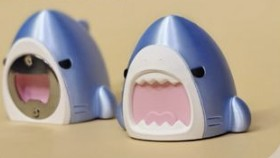
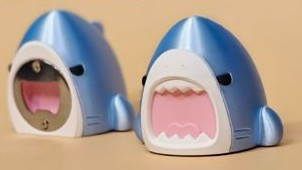
3D merch slider: new garden and shark photos
Claude-Session: https://claude.ai/code/session_0182ETGqkY6VZC2ACV9rE9Mb

diff --git a/index.html b/index.html
@@ -882,7 +882,7 @@ var ART = [
 var FAB = [
   { imgs:['fab-game-3.jpg','fab-game-2.jpg','fab-game-4.jpg','fab-game-1.jpg'], title:['โมเดล 3D สำหรับเกม','3D Model — Game'], desc:['โมเดล 3D สำหรับใช้ในเกม','3D models for games.'], kw:'สามมิติ เกม โมเดล 3d' },
   { imgs:['fab-gen-1.jpg','fab-gen-2.jpg','fab-gen-4.jpg','fab-gen-3.jpg'], title:['โมเดล 3D งานทั่วไป','3D Model — General'], desc:['โมเดล 3D สำหรับงานทั่วไป เช่น โปรโมต วิชวล หรืองานพิมพ์','3D models for general use, like promotion, visuals or printing.'], kw:'สามมิติ โมเดล 3d' },
-  { imgs:['merch3d-1.jpg','merch3d-2.jpg','merch3d-3.jpg','merch3d-4.jpg'], title:['ของที่ระลึกพิมพ์ 3D','Custom 3D Merch'], desc:['ของที่ระลึกพิมพ์ 3D ตามแบบของคุณ','3D-printed merch made to your design.'], kw:'ของที่ระลึก ฟิกเกอร์ พิมพ์ 3d merch figure' },
+  { imgs:['merch3d-1.jpg','merch3d-2.jpg','merch3d-3.jpg?v=2','merch3d-4.jpg?v=2'], title:['ของที่ระลึกพิมพ์ 3D','Custom 3D Merch'], desc:['ของที่ระลึกพิมพ์ 3D ตามแบบของคุณ','3D-printed merch made to your design.'], kw:'ของที่ระลึก ฟิกเกอร์ พิมพ์ 3d merch figure' },
   { imgs:['fab-workshop-3.jpg','fab-workshop-1.jpg','fab-workshop-4.jpg','fab-workshop-2.jpg'], title:['เวิร์กช็อปพิมพ์ 3D','3D Print Workshop'], desc:['เวิร์กช็อปพิมพ์ 3D สำหรับทีมหรืออีเวนต์','3D printing workshops for teams or events.'], kw:'เวิร์กช็อป สอน พิมพ์ 3d workshop' },
   { title:['พิมพ์ UV','UV Printing'], desc:['พิมพ์ UV ลงพลาสติก ไม้ และพื้นผิวไม่เรียบ ทั้งแบบเรียบและแบบนูน','UV printing on plastic, wood and irregular surfaces, flat or embossed.'], kw:'พิมพ์ยูวี พิมพ์ลงไม้ พลาสติก นูน uv' },
   { title:['เครื่องพิมพ์ 3D และวัสดุ','3D Printer & Materials'], desc:['จำหน่ายเครื่องพิมพ์ 3D และวัสดุ','3D printers and materials for sale.'], kw:'เครื่องพิมพ์ 3d เส้นพลาสติก วัสดุ ขาย printer filament' }
